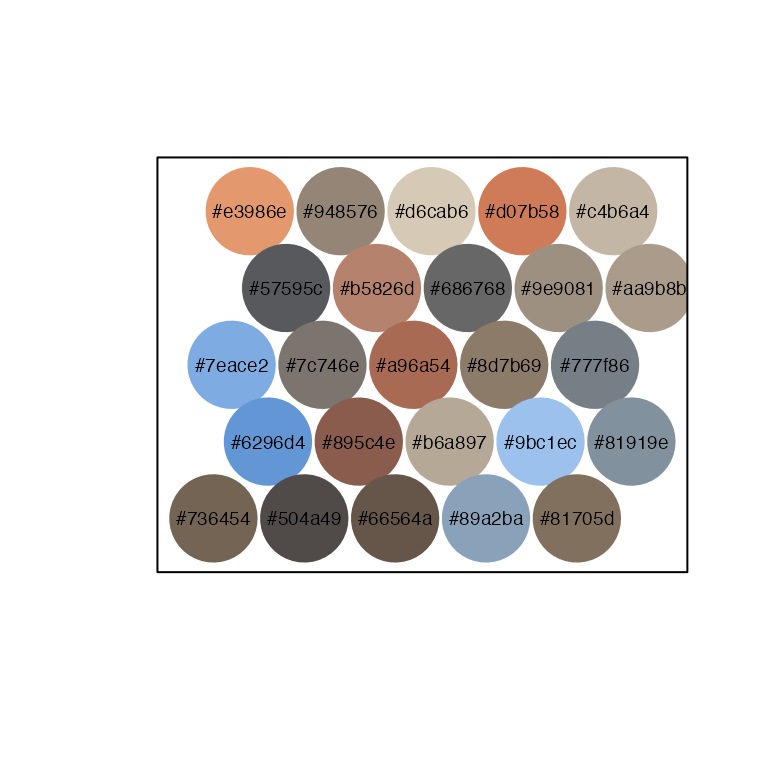
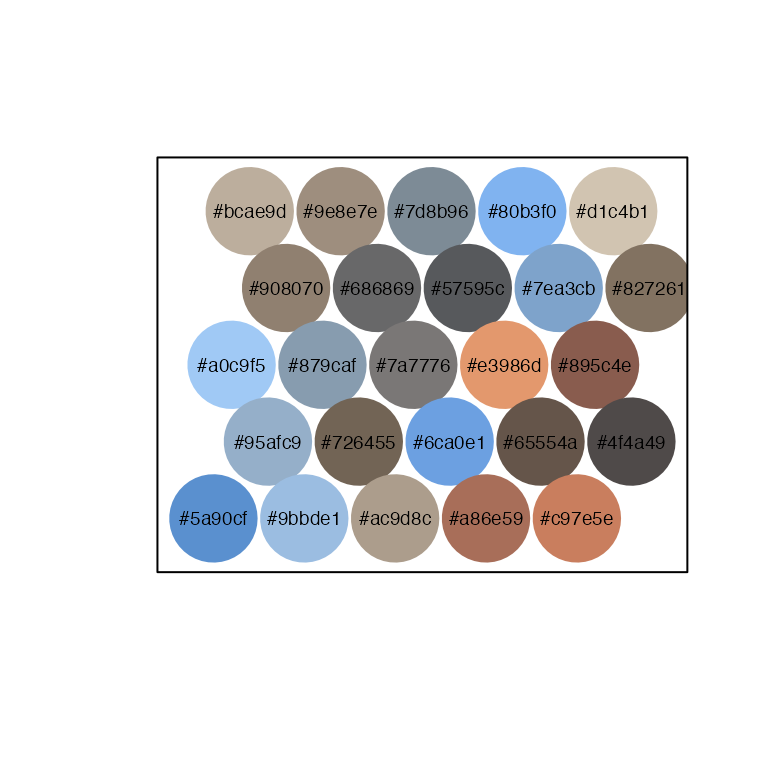
Rebuilt site with updated NEWS.md file

Changed region(s): [[0.2188, 0.2188, 0.9062, 0.75], [0.7812, 0.25, 0.8438, 0.2812]]

diff --git a/docs/articles/lterpalettefinder.html b/docs/articles/lterpalettefinder.html
@@ -118,10 +118,10 @@ identified by k-means clustering on the red, green, blue bands extracted
 from the image) stored as hexadecimal codes.</p>
 <div class="sourceCode" id="cb3"><pre class="downlit sourceCode r">
 <code class="sourceCode R"><span><span class="va">fire_palette</span></span>
-<span><span class="co">#&gt;  [1] "#736454" "#7eace2" "#e3986e" "#6296d4" "#57595c" "#504a49" "#7c746e"</span></span>
-<span><span class="co">#&gt;  [8] "#948576" "#895c4e" "#b5826d" "#66564a" "#a96a54" "#d6cab6" "#b6a897"</span></span>
-<span><span class="co">#&gt; [15] "#686768" "#89a2ba" "#8d7b69" "#d07b58" "#9bc1ec" "#9e9081" "#81705d"</span></span>
-<span><span class="co">#&gt; [22] "#777f86" "#c4b6a4" "#81919e" "#aa9b8b"</span></span></code></pre></div>
+<span><span class="co">#&gt;  [1] "#5a90cf" "#a0c9f5" "#bcae9d" "#95afc9" "#908070" "#9bbde1" "#879caf"</span></span>
+<span><span class="co">#&gt;  [8] "#9e8e7e" "#726455" "#686869" "#ac9d8c" "#7a7776" "#7d8b96" "#6ca0e1"</span></span>
+<span><span class="co">#&gt; [15] "#57595c" "#a86e59" "#e3986d" "#80b3f0" "#65554a" "#7ea3cb" "#c97e5e"</span></span>
+<span><span class="co">#&gt; [22] "#895c4e" "#d1c4b1" "#4f4a49" "#827261"</span></span></code></pre></div>
 </div>
 <div class="section level3">
 <h3 id="viewing-the-palette">Viewing the Palette<a class="anchor" aria-label="anchor" href="#viewing-the-palette"></a>

diff --git a/docs/news/index.html b/docs/news/index.html
@@ -50,7 +50,8 @@
     <div class="section level2">
 <h2 class="pkg-version" data-toc-text="1.0.0.9000" id="lterpalettefinder-version-1009000">lterpalettefinder Version 1.0.0.9000<a class="anchor" aria-label="anchor" href="#lterpalettefinder-version-1009000"></a></h2>
 <p>Development version of <code>lterpalettefinder</code> following version 1.0.0. Changes to the package will be listed here as they are created.</p>
-</div>
+<ul><li>LTER acronym (Long Term Ecological Research) defined in README and <code>palette_find</code> function documentation.</li>
+</ul></div>
     <div class="section level2">
 <h2 class="pkg-version" data-toc-text="1.0.0" id="lterpalettefinder-version-100">lterpalettefinder Version 1.0.0<a class="anchor" aria-label="anchor" href="#lterpalettefinder-version-100"></a></h2><p class="text-muted">CRAN release: 2022-12-06</p>
 <p>This is the first fully-functioning version of the package. It currently has no ERRORS, WARNINGS, or NOTES from <code><a href="https://devtools.r-lib.org/reference/check.html" class="external-link">devtools::check()</a></code></p>
